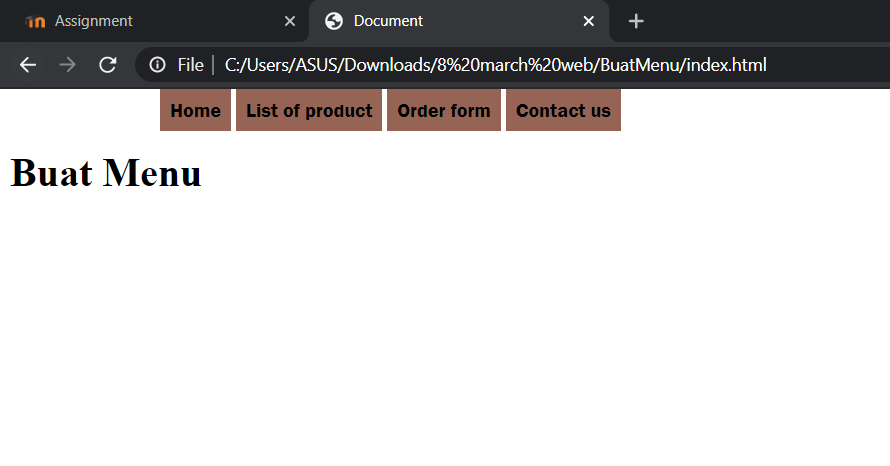
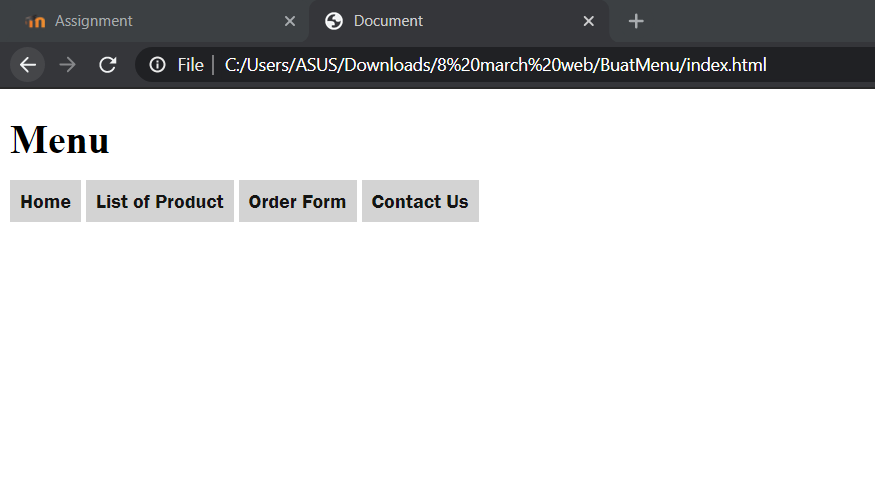
menu baru

diff --git a/index.html b/index.html
@@ -5,39 +5,47 @@
     <meta http-equiv="X-UA-Compatible" content="IE=edge">
     <meta name="viewport" content="width=device-width, initial-scale=1.0">
     <title>Document</title>
+    <style>
+        
+        .menu_ul {
+            list-style-type: none;
+            margin: 0;
+            padding: 0;
+        }
+
+        .menu_ul li {
+            display: inline;
+        }
+
+        .menu_ul a {
+        text-decoration: none;
+        font-family:'Franklin Gothic Medium', 'Arial Narrow', Arial, sans-serif;
+        padding: 8px;
+        color:rgb(20, 20, 20);
+        background-color:lightgrey;
+        }
+
+        .menu_ul a:hover {
+        background-color:rgb(105, 91, 85);
+        }
+    </style>
 </head>
-<style>
-    .menu_ul {
-        list-style-type: none;
-        margin: 0;
-        padding: 3;
-    }
-    .menu_ul li {
-    display: inline;
-}
-.menu_ul a {
-    text-decoration: none;
-    font-family: 'Franklin Gothic Medium', 'Arial Narrow', Arial, sans-serif;
-    padding: 8px;
-    color: rgb(0, 0, 0);
-    background-color:rgb(150, 100, 84);
-}
-</style>
 <body>
+    <h1>Menu</h1>
 
     <ul class="menu_ul">
     <ul class="menu_ul li">
     <ul class="menu_ul a">
+    <ul class="menu_ul a:hover">
 
-        <li><a href="#Home">Home</a></li>
-        <li><a href="#product">List of product</a></li>
-        <li><a href="#Order">Order form</a></li>
-        <li><a href="#Contact">Contact us</a></li>
-
+        <li menu="menu_ul"><a href="#home">Home</a></li>
+        <li menu="menu_ul"><a href="#product">List of Product</a></li>
+        <li menu="menu_ul"><a href="#order">Order Form</a></li>
+        <li menu="menu_ul"><a href="#contact">Contact Us</a></li>
     </ul>
     </ul>
     </ul>
+    </ul>
 
-    <h1>Buat Menu</h1>
 </body>
 </html>

diff --git a/menu2.html b/menu2.html
@@ -5,8 +5,48 @@
     <meta http-equiv="X-UA-Compatible" content="IE=edge">
     <meta name="viewport" content="width=device-width, initial-scale=1.0">
     <title>Document</title>
+    <style>
+        .menu_ul {
+    list-style-type: none;
+    margin: 0;
+    padding: 0;
+    overflow: hidden;
+    background-color: rgb(78, 68, 85);
+    }
+
+    .menu_ul li {
+    float: left;
+    }
+
+    .menu_ul li a {
+    display: block;
+    color: white;
+    text-align: center;
+    padding: 14px 16px;
+    text-decoration: none;
+    }
+
+    .menu_ul li a:hover {
+    background-color: rgb(34, 49, 34);
+    }
+    </style>
 </head>
 <body>
-    
+    <h1>Menu</h1>
+
+    <ul class="menu_ul">
+    <ul class="menu_ul li">
+    <ul class="menu_ul a">
+    <ul class="menu_ul a:hover">
+
+        <li menu="menu_ul"><a href="#home">Home</a></li>
+        <li menu="menu_ul"><a href="#product">List of Product</a></li>
+        <li menu="menu_ul"><a href="#order">Order Form</a></li>
+        <li menu="menu_ul"><a href="#contact">Contact Us</a></li>
+    </ul>
+    </ul>
+    </ul>
+    </ul>
+
 </body>
 </html>
